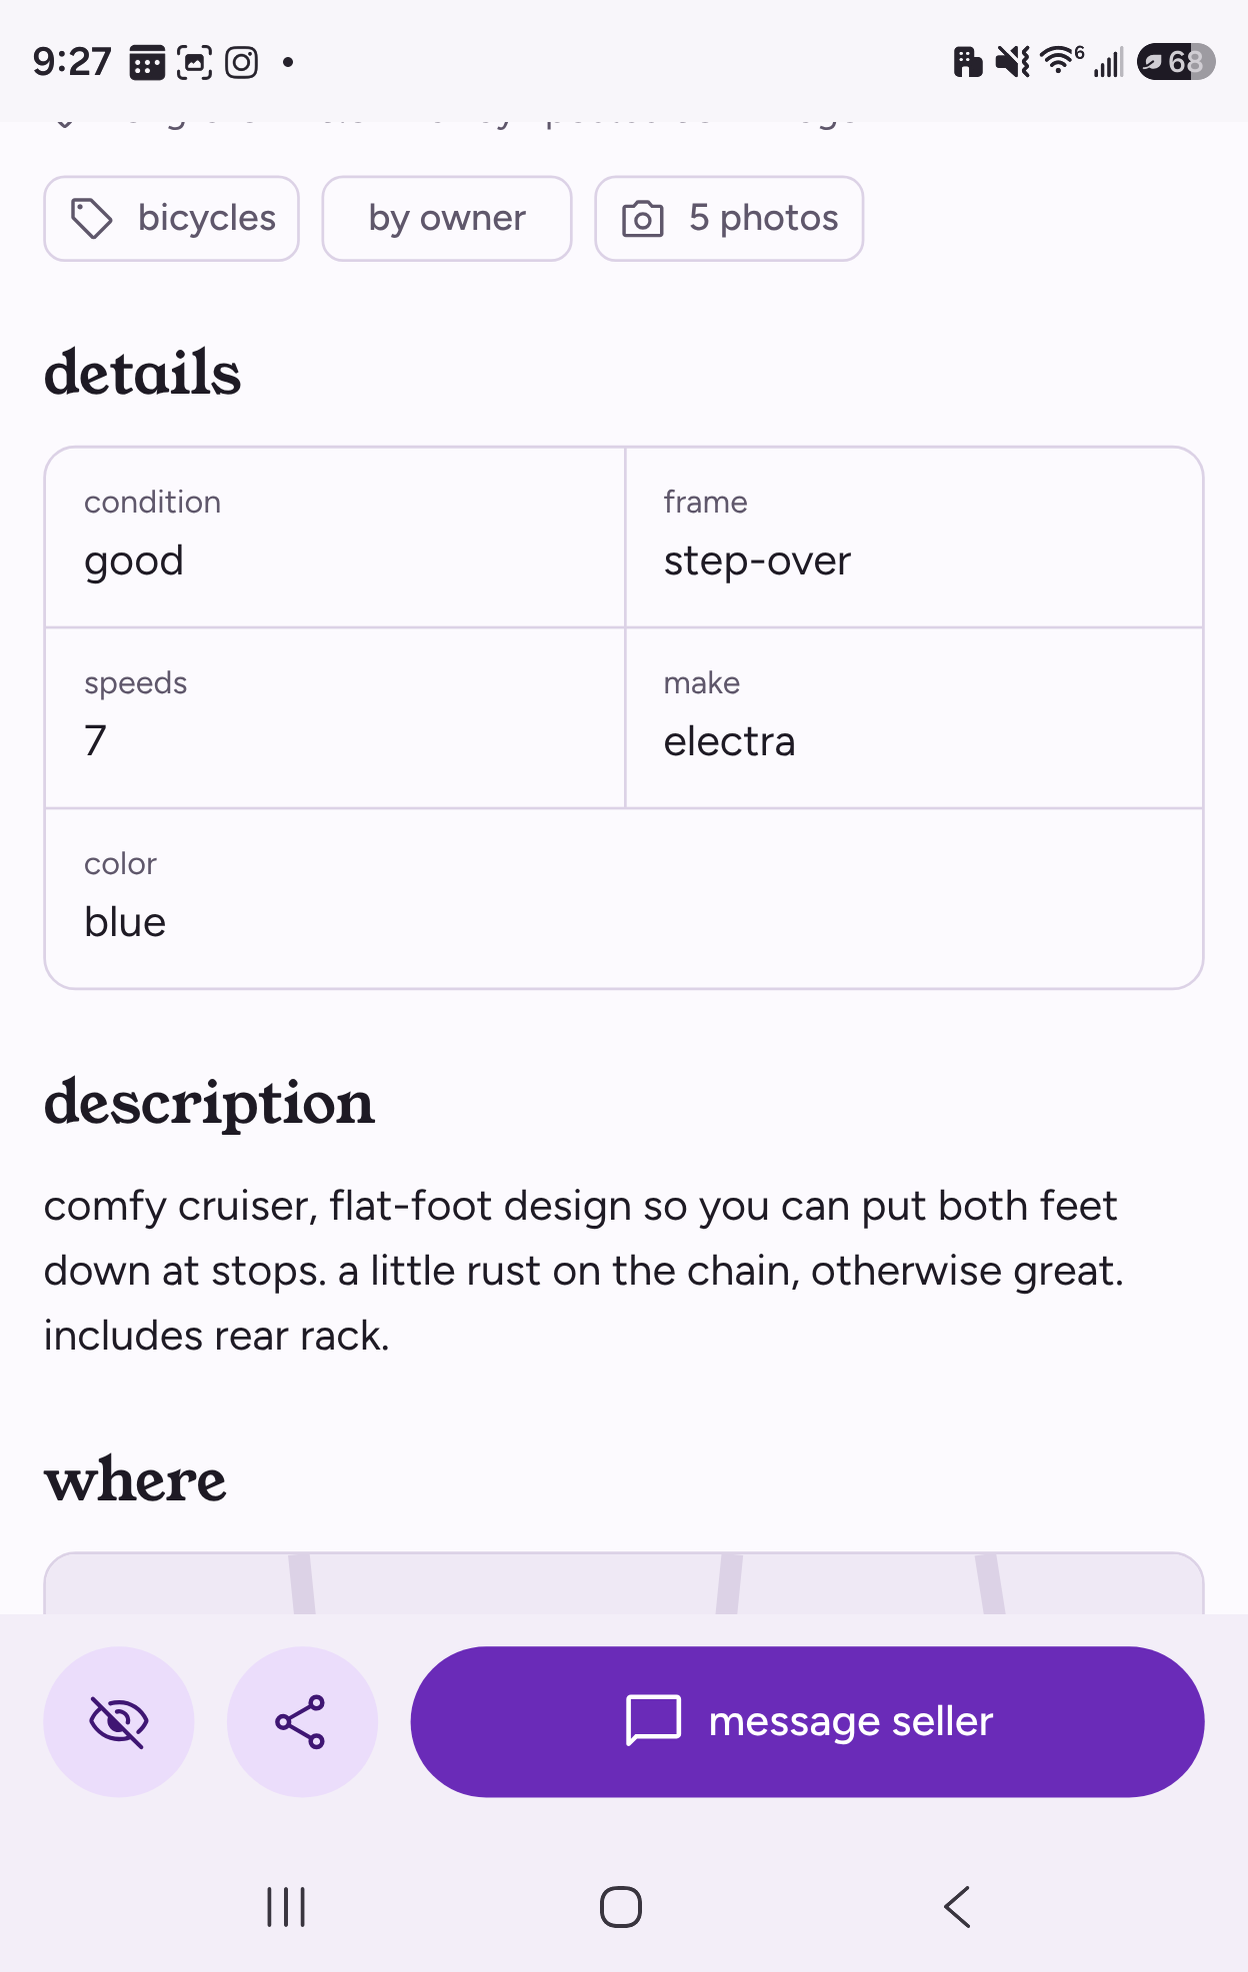
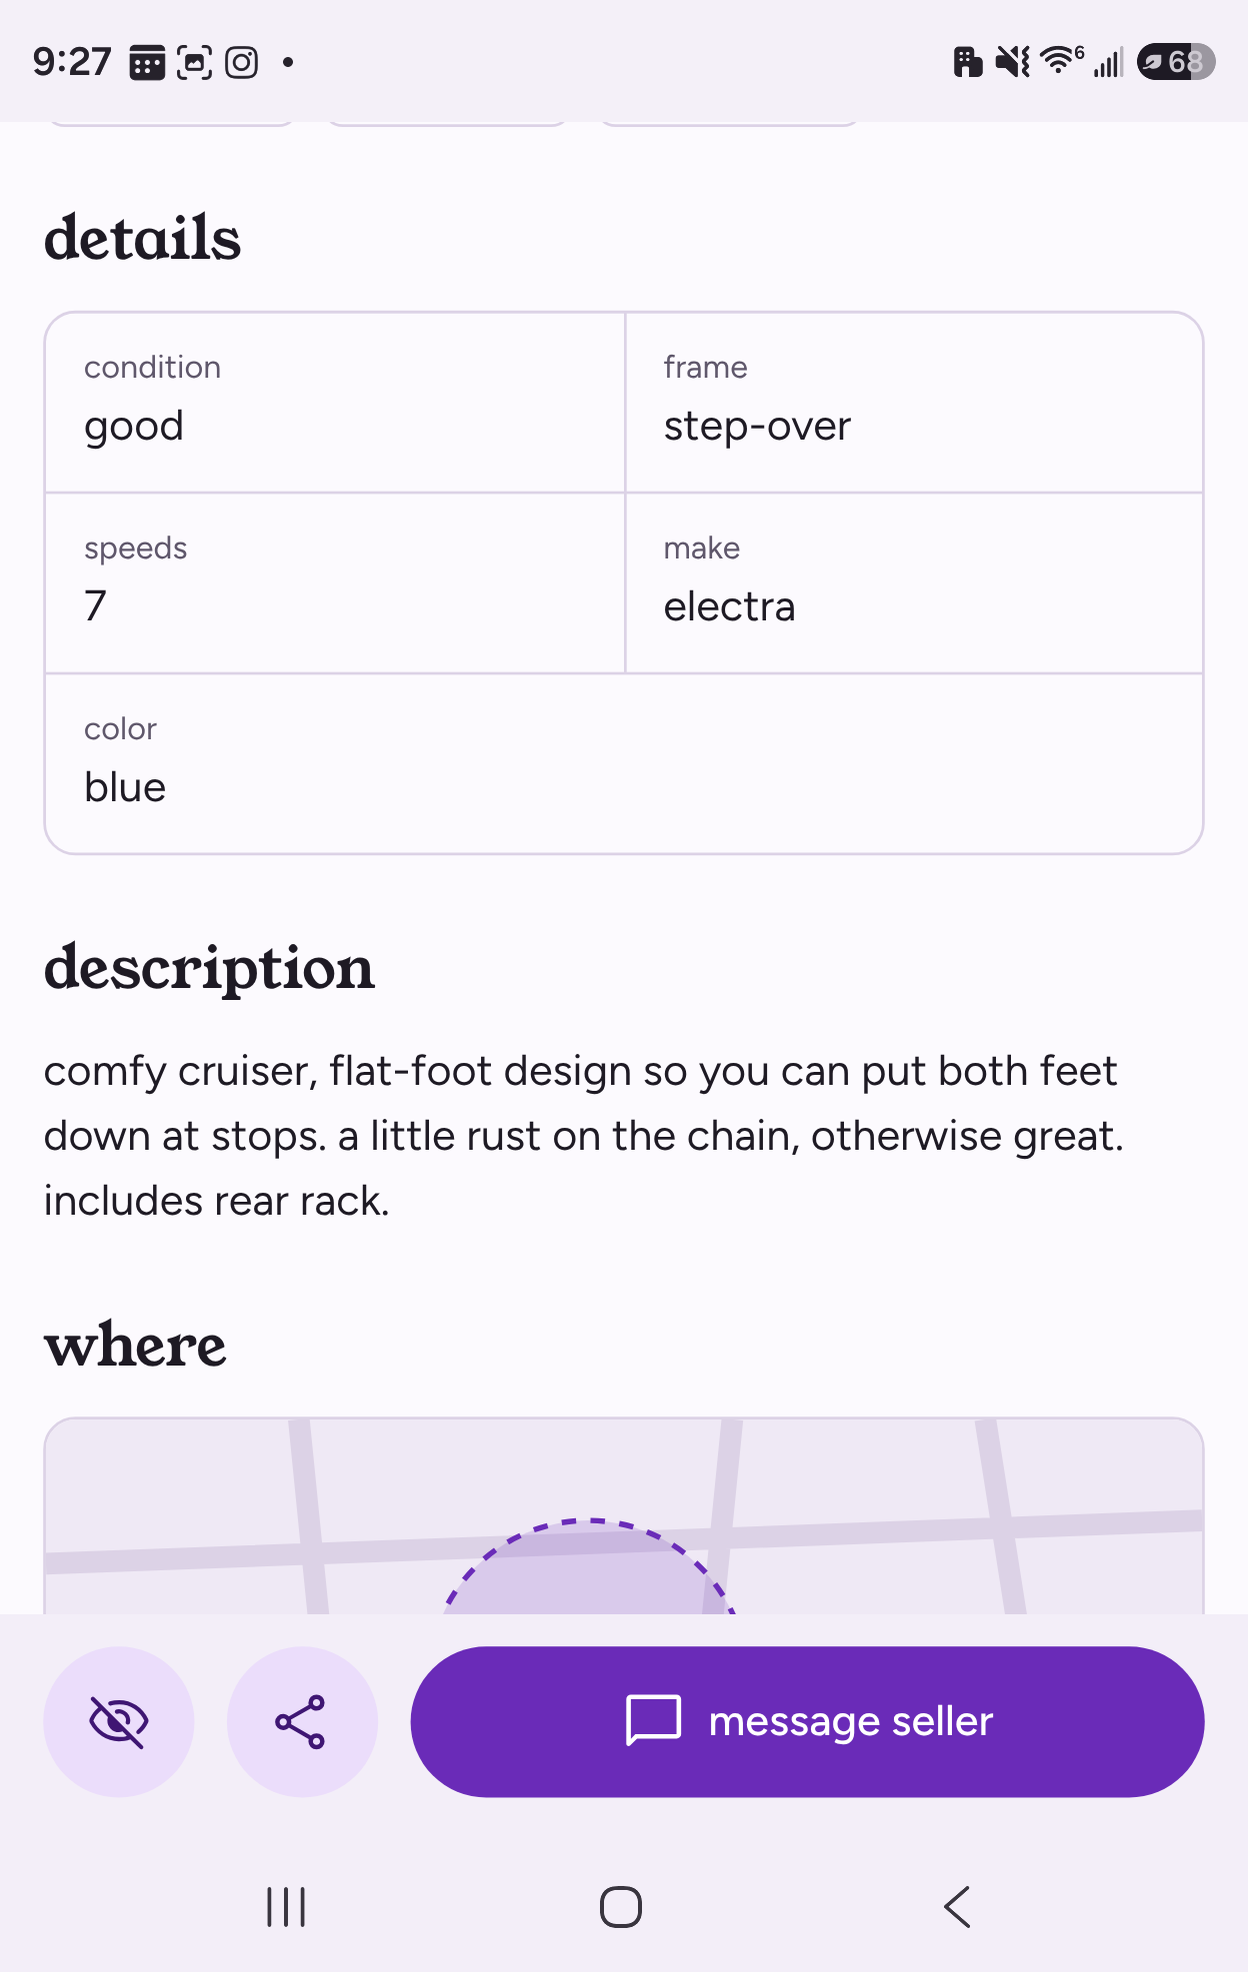
Detail page slides from Jon's notes; recapture specs and similar-items shots
Claude-Session: https://claude.ai/code/session_01H3xU87F2bRsPtLC5hugNNH

diff --git a/docs/presentation-outline.md b/docs/presentation-outline.md
@@ -2,7 +2,7 @@
 
 The deck: https://claude.ai/artifact/HfML2PPvNBSg19qWgBHqJh (private until shared from its Share menu).
 
-**Shape:** three parts. Part 1 frames the project (goals, where we are, the visual refresh). Part 2 walks through the four screens up for review today: home, browsing a category, search, and the listing. Part 3 recaps, demos the prototype and opens the discussion. 18 slides, plus a 4-slide appendix (22 in all).
+**Shape:** three parts. Part 1 frames the project (goals, where we are, the visual refresh). Part 2 walks through the four screens up for review today: home, browsing a category, search, and the listing. Part 3 recaps, demos the prototype and opens the discussion. 19 slides, plus a 4-slide appendix (23 in all).
 
 **Walkthrough slides:** today’s screen on the left (from [`audit-screens/`](audit-screens/)), the redesign on the right (from [`presentation-screens/`](presentation-screens/)), and three callouts. Each callout is a short grey label over a bold line, and describes a feature you can see in that slide’s screenshots. No claims about how today’s app works beyond what its screenshot shows.
 
@@ -72,38 +72,46 @@ Purple divider. “I live in Longfellow and want a used road bike for under $300
 - Search in a category / **Matching categories with counts, most relevant first**
 
 ### 12. Is it worth the trip? The listing tells you up front
-- **Screens:** today [24](audit-screens/24-detail-top-gallery.jpg); redesign `14a-detail-top`, `14c-detail-where`
-- Where and when, at a glance / **Neighborhood, distance and age right under the title**
-- Specs in a grid / **Condition, frame, make and more, easy to scan**
-- Actions where you expect them / **Save over the photo; hide, share and message at the bottom**
+- **Screens:** today [24](audit-screens/24-detail-top-gallery.jpg); redesign `14a-detail-top`, `17a-save-from-card`
+- Next and previous, kept / **Move between results without the back button**
+- Price and location up front / **A more prominent price, and distance with the location**
+- Save at the top / **The same spot as on the list, so saving several in a row is quick**
 
-### 13. If a deal looks too good, we say so
+### 13. Hide, share and message, all in one bar
+- **Screens:** today [26](audit-screens/26-detail-map-actions.jpg); redesign `14d-hide-confirm`, `16a-message-seller`
+- A clearer hide icon / **Hiding asks first, and lets you report it too**
+- Share in the middle / **Prominent, so passing a listing along is easy**
+- Message on the right / **The main action, with quick replies to get started**
+
+### 14. The details are easy to browse
+- **Screens:** today [25](audit-screens/25-detail-specs.jpg); redesign `14b-detail-specs`, `14e-detail-similar`
+- Details in a grid / **Condition, frame, make and more, easy to browse**
+- Description and where, kept / **A map to easily understand where the item is**
+- More to explore / **Similar items, and a small nudge to post your own**
+- *Note:* considering swapping the description with the details grid.
+
+### 15. A measured step toward more trust
 - **Screens:** today [27](audit-screens/27-detail-overflow-sheet.jpg); redesign `15c-far-below-typical`, `15b-seller-report-safety`
-- Price check / **The typical local price range, right on the listing**
-- A heads-up on prices far below typical / **See it in person before you pay anything**
-- Seller card and safety tip / **Who posted it, where to meet, and a report link**
-
-### 14. Reaching the seller takes one tap
-- **Screens:** today [28](audit-screens/28-detail-reply-sheet.jpg); redesign `16a-message-seller`
-- One message button / **Message seller is the main action on every listing**
-- Quick replies / **“Is this still available?” is one tap away**
-- Private by default / **Reply through craigslist chat or the email relay**
+- New price check / **Helps gauge an offer against typical local prices**
+- More about the seller / **Phone verified, and how many other listings they have**
+- Report where people look for it / **With the seller info, and in the hide flow**
+- *Notes:* the price check may be cut, since it gets complicated fast. Not in the UI yet: a rating system, or shadowbanning people with many negative reviews. Report could also go at the very bottom.
 
 ---
 
 ## Part 3: Recap and discussion
 
-### 15. Part 3 · Recap and discussion: Let’s talk it through
+### 16. Part 3 · Recap and discussion: Let’s talk it through
 Purple divider. “A quick look in the prototype, then your feedback on today’s screens.”
 
-### 16. See it for yourself
+### 17. See it for yourself
 Live demo on the phone, prototype at jonmorris.github.io/Craigslist.
 - **Browse:** home → for sale → bicycles → filters → a listing → message seller
 - **Search:** search “bike” → jump straight to a listing from the suggestions
 
-### 17. Questions?
+### 18. Questions?
 
-### 18. Thank you
+### 19. Thank you
 “craigslist modern refresh · Android App Redesign”, with the prototype link.
 
 ---
